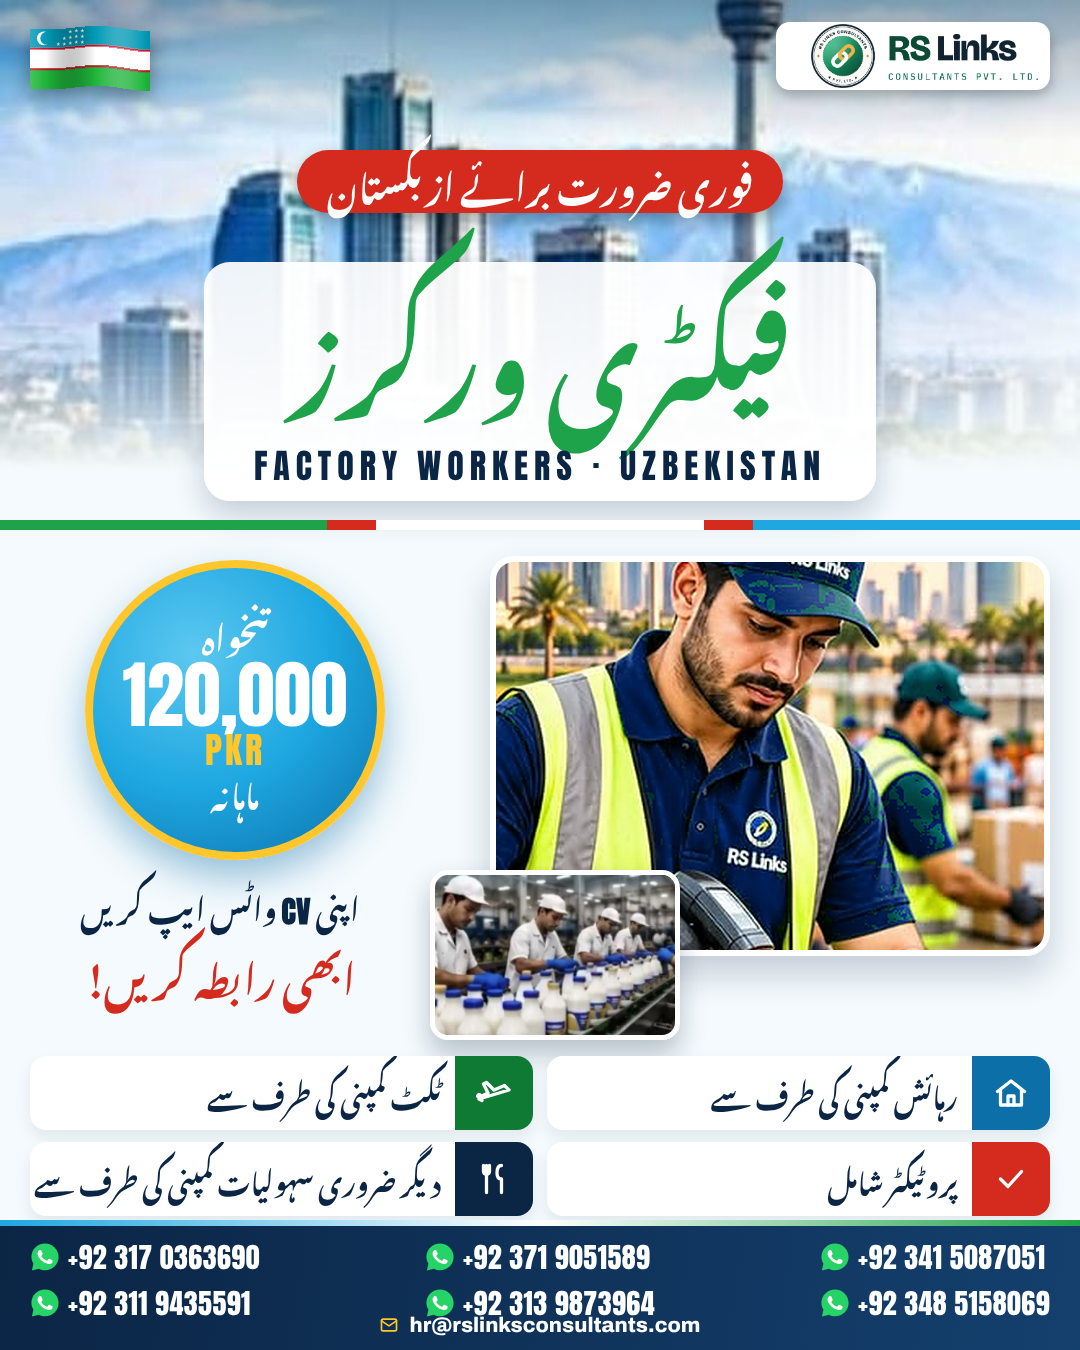
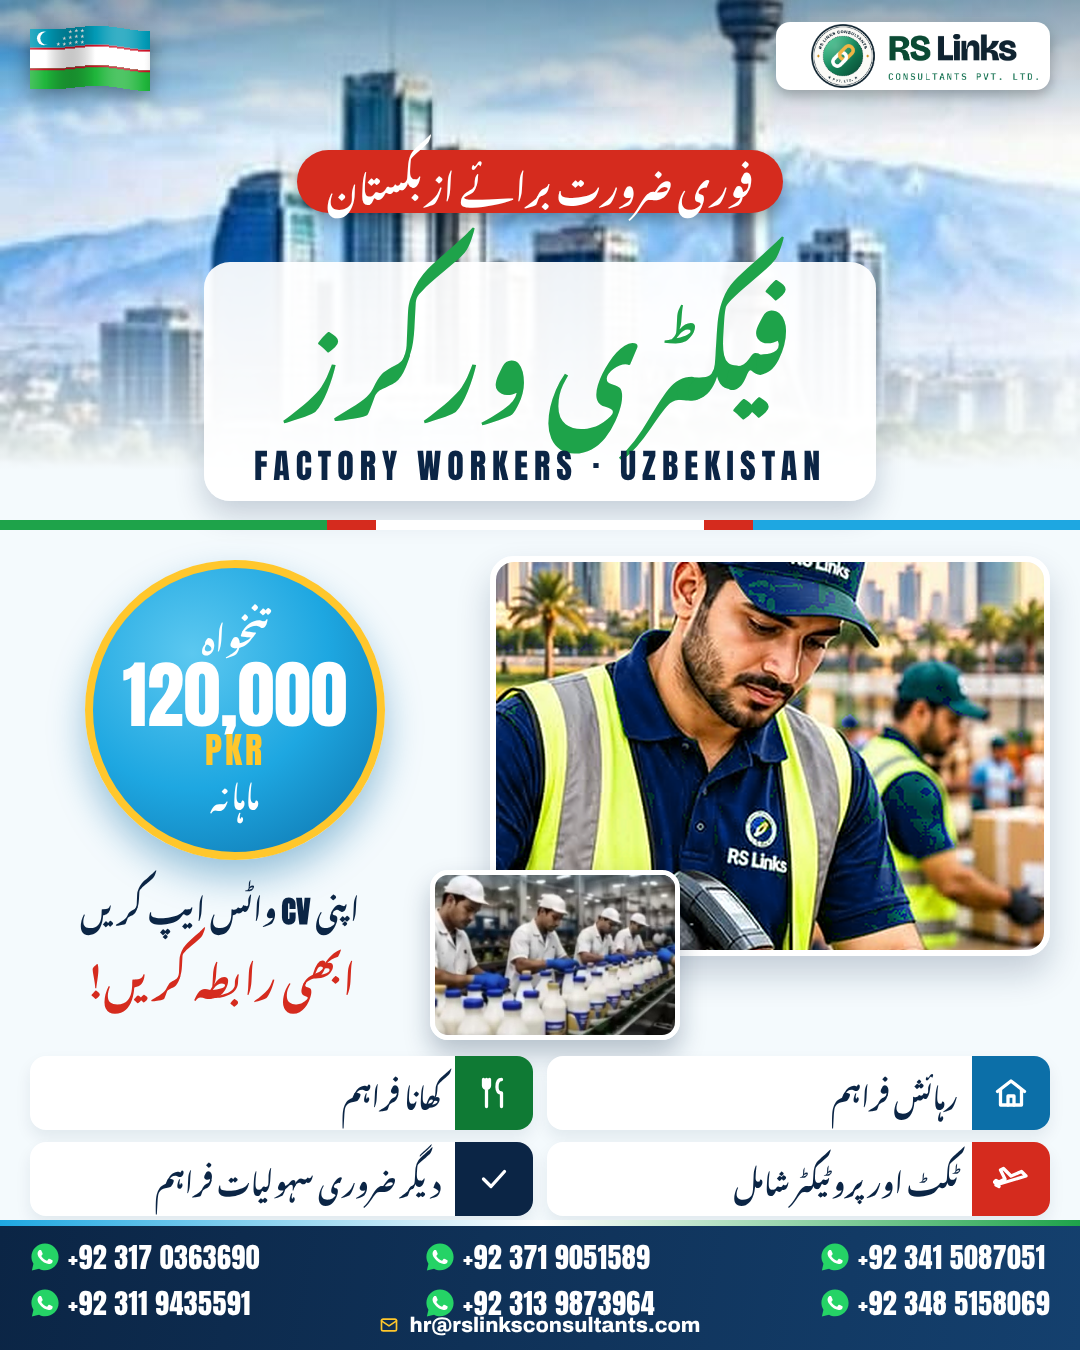
Uzbekistan v12 Urdu: food provided, ticket & protector included, no 'company' wording
Claude-Session: https://claude.ai/code/session_01YJ5ofgU8QCiWTsYR9pvXG4

diff --git a/src/uzbekistan_factory_ur_v12.py b/src/uzbekistan_factory_ur_v12.py
@@ -16,7 +16,7 @@ T = lambda s, px, c, extra="", lh=1.8: f"<div class='t' style='font-size:{px}px;
 
 def build():
     P = lambda f: (PHOTOS / f).as_uri()
-    ben = [("home", SKY2, "رہائش کمپنی کی طرف سے"), ("plane", GRN2, "ٹکٹ کمپنی کی طرف سے"), ("check", RED, "پروٹیکٹر شامل"), ("food", NAVY, "دیگر ضروری سہولیات کمپنی کی طرف سے")]
+    ben = [("home", SKY2, "رہائش فراہم"), ("food", GRN2, "کھانا فراہم"), ("plane", RED, "ٹکٹ اور پروٹیکٹر شامل"), ("check", NAVY, "دیگر ضروری سہولیات فراہم")]
     rows = "".join(f"<div style='display:flex;align-items:center;gap:14px;background:#fff;border-radius:16px;height:74px;box-shadow:0 8px 16px #0B254514;overflow:hidden'>"
                    f"<span style='width:78px;height:100%;background:{c};display:flex;align-items:center;justify-content:center;flex:none'>{icon(ic, 36, '#fff', 2.2)}</span>"
                    f"{T(t, 27, INK, 'font-weight:700', 1.9)}</div>" for ic, c, t in ben)
